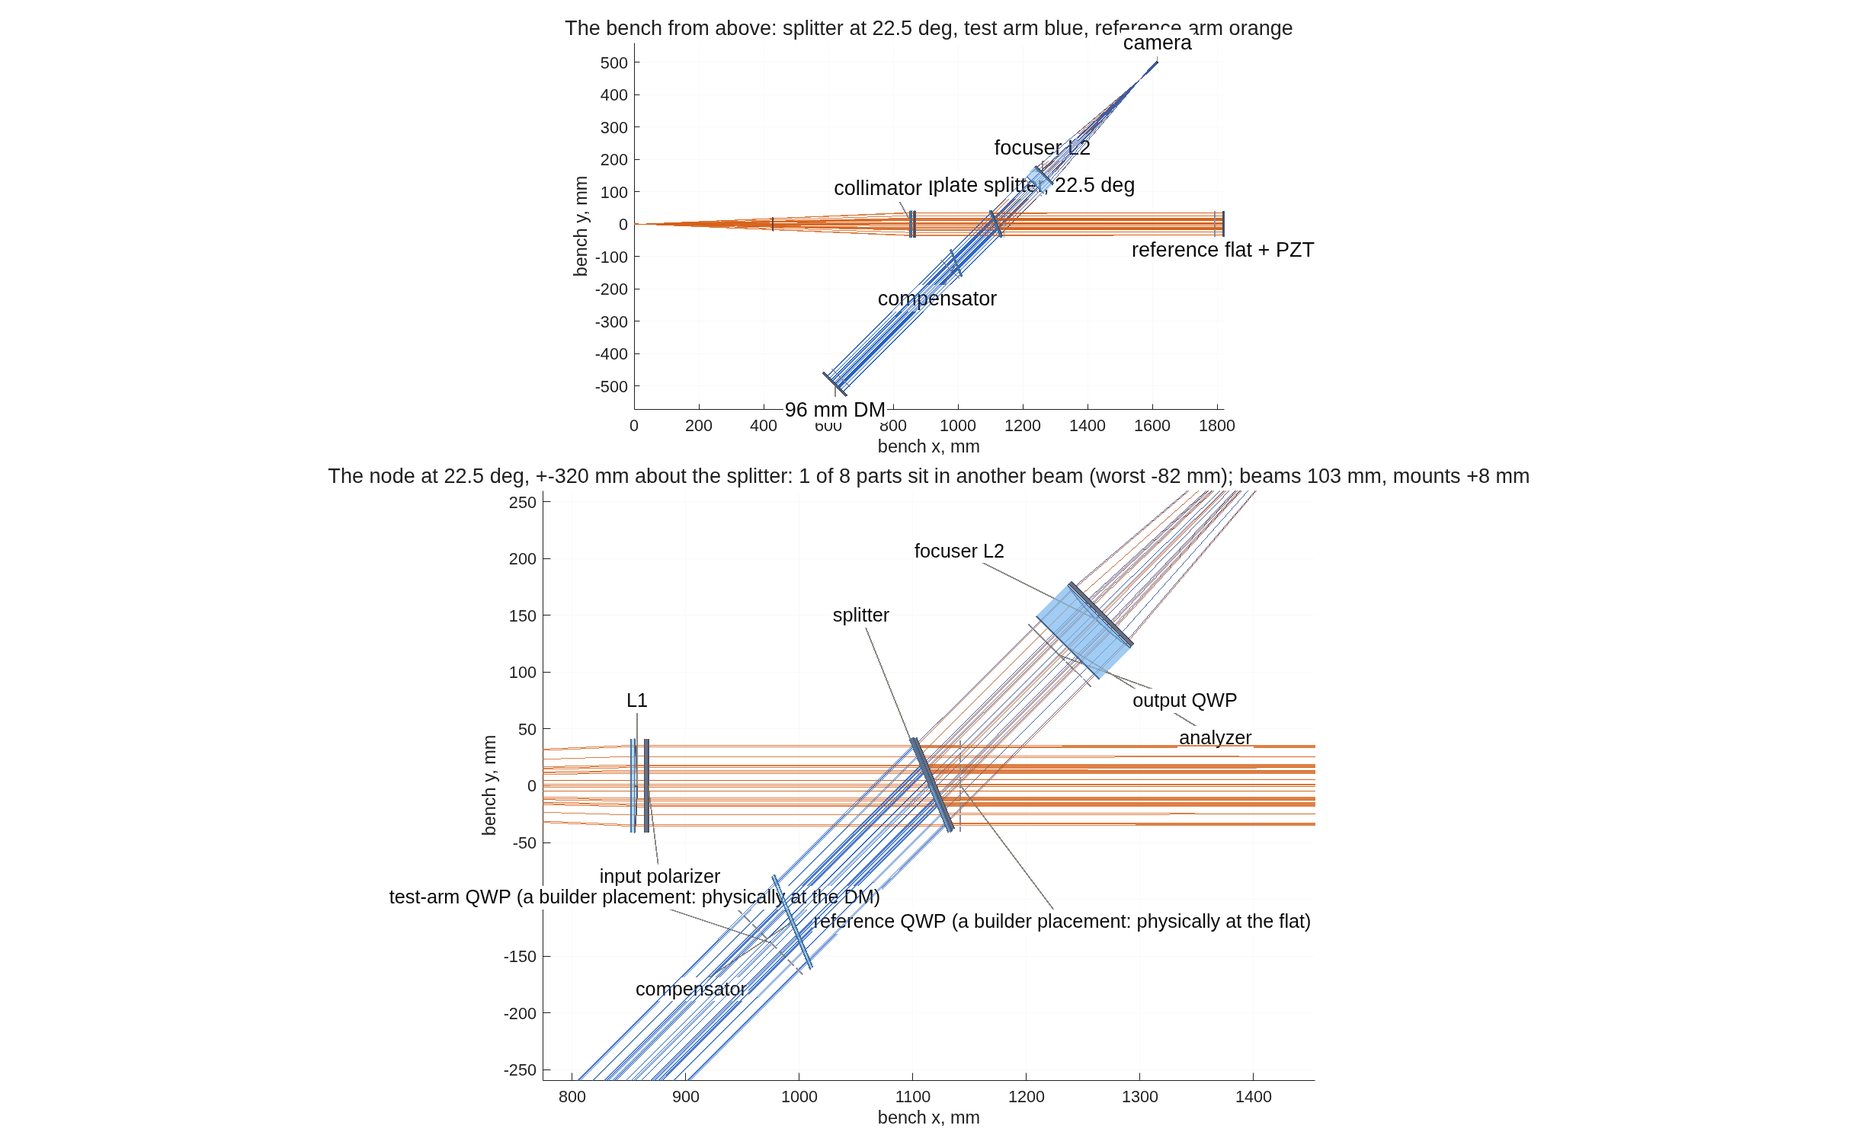
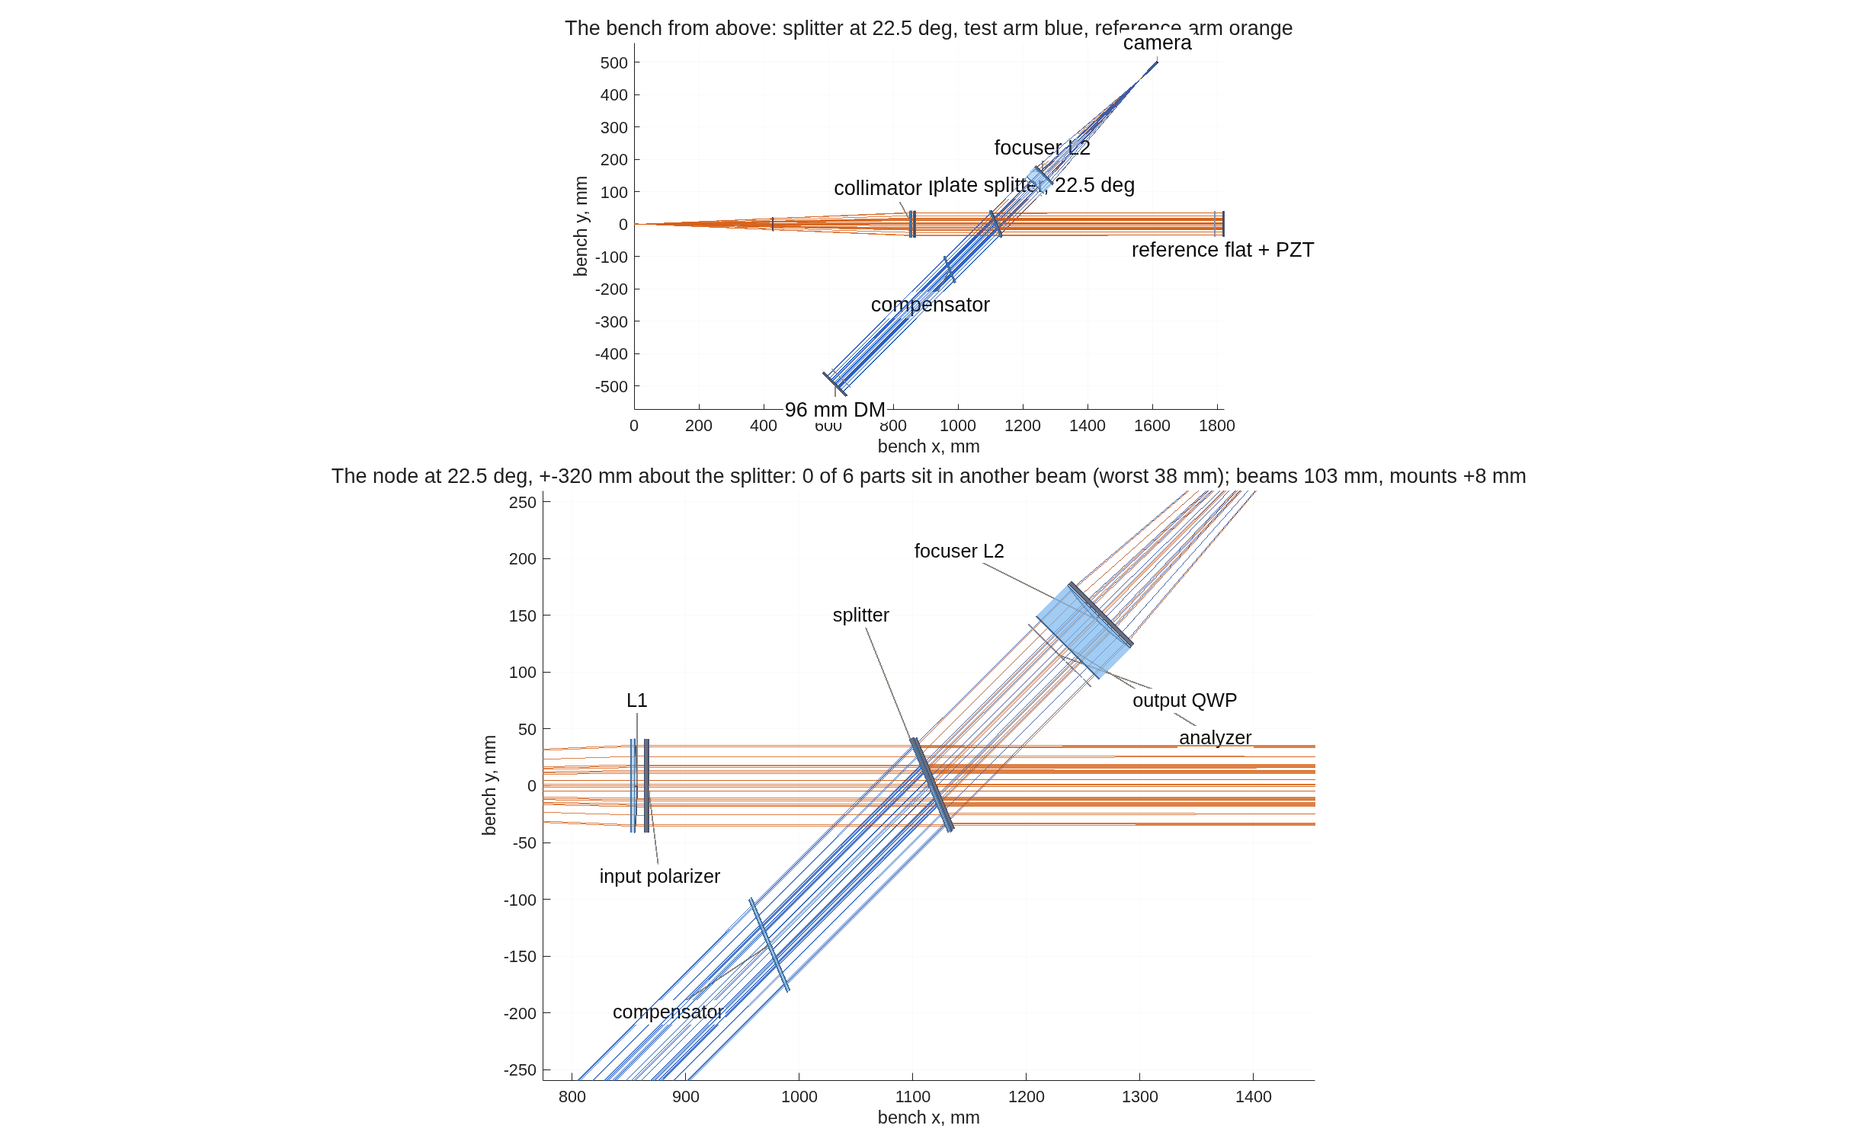
Item 2 of the realism round (CCL; recovered after the 07:25 OOM crash): Stage A solves the splitter angle against the NODE parts too (L1, input polarizer, compensator, output QWP, analyzer, L2: d sin 2AOI >= beam + part + mount + margin) and a 'clearance' stage prints dmg_bench_clearance's part-by-p

diff --git a/mmacos/templates/40_benches/tg_psi_dm96_oap/tg96_run.m b/mmacos/templates/40_benches/tg_psi_dm96_oap/tg96_run.m
@@ -16,8 +16,15 @@ function out = tg96_run(varargin)
 %   <tag>_transfer.png.  Reuses ../dm_gauge_lib is NOT required -- tg96.m's
 %   verbatim polarization-PSI helpers are file-local here (same as tg96.m).
 %
-%   Stage A  clearance solve (folded for OAP: source->OAP1 + OAP2->detector)
+%   Stage A  clearance solve: the splitter angle against the three END bodies
+%     (DM, reference flat, camera) inside LEG_CAP AND against the NODE parts
+%     packed around the splitter -- L1, the input polarizer, the compensator,
+%     the output QWP, the analyzer, L2 -- each of which clears the leg it is
+%     not in only if d*sin(2*AOI) covers beam + part + mount + margin.  The
+%     folded source->OAP1 / OAP2->detector legs are re-solved for OAP.
 %   Stage A2 sampling budget (asserted)
+%   Stage CLEARANCE  the measured part-by-part table (dmg_bench_clearance on
+%     this run's own rig) -- runs LAST; stages {'bench','clearance'}.
 %   Stage B  build via macos.design.twyman_green(..., 'optics', ...)
 %   Stage C  null / piston / single-actuator / registration / closure
 %   Stage D  transfer curve to the DM Nyquist + held-out random
@@ -116,8 +123,19 @@ if want('figs')
     end
 end
 
+% ---- Clearance: does every physical part clear every beam it is not in? ---
+%  LAST, deliberately: the tool traces both arms through its own temporary
+%  decks and leaves the engine on them, so no stage downstream may depend on
+%  which deck is loaded.  It measures THIS run's rig (passed as 'G'), not a
+%  rebuild of it from another param file.
+clearout = struct();
+if want('clearance')
+    clearout = stage_clearance_(P, bench, say);
+end
+
 out = struct('P', P, 'geom', geom, 'bench', bench, 'battery', battery, ...
-    'deck', deck, 'place', place, 'loop', loop, 'jones', jones, 's', s);
+    'deck', deck, 'place', place, 'loop', loop, 'jones', jones, 's', s, ...
+    'clearance', clearout);
 save([P.tag '.mat'], 'out');
 say('\nwrote %s_report.txt + %s.mat + figures in %s\n', P.tag, P.tag, P.outdir);
 end
@@ -133,11 +151,54 @@ function [geom, legs] = stage_A_(P, s, say)
             'camera leg vs source beam',P.clear.HW_CAM};
     say('Stage A -- clearance solve (beam_r %.1f, margin %.0f, leg cap %.0f):\n', ...
         beam_r, MARGIN, LEG_CAP);
+    MOUNT = 8;  if isfield(P.clear,'MOUNT') && ~isempty(P.clear.MOUNT), MOUNT = P.clear.MOUNT; end
     need = cellfun(@(h) beam_r + h + MARGIN, legs(:,2));
-    th_min = max(asind(need/LEG_CAP))/2;
+    th_end = max(asind(min(1, need/LEG_CAP)))/2;
+    % ---- the NODE parts.  Stage A used to solve the angle against the three
+    %  END bodies only (DM, reference flat, camera) inside LEG_CAP, and never
+    %  looked at the parts packed around the splitter: at the record's 7 deg
+    %  eight of the nine node parts sat inside a beam they are not in (Dave
+    %  2026-09-15, "this is not buildable"; measured by dmg_bench_clearance).
+    %  A part on one leg at distance d from the splitter clears the OTHER leg
+    %  when the two are separated by more than the beam radius plus the part's
+    %  own radius, its mount and the margin.  Those d are fixed by the bench
+    %  block, so this constrains the ANGLE and not a leg length -- which is
+    %  exactly why the end-body solve could not see it (that one buys its
+    %  separation by making the DM leg longer).
+    %  The separation is measured IN THE PART'S PLANE, which is what sets the
+    %  law.  Put the splitter at the origin with the input beam along +x: the
+    %  test arm runs +x, the reference arm leaves at 2*AOI, and the output leg
+    %  is opposite the reference arm.  A part whose plane is NORMAL TO ITS OWN
+    %  BEAM is crossed by the opposing leg at lateral distance d*tan(2*AOI) --
+    %  not d*sin(2*AOI), which measures across the other beam instead of along
+    %  the part.  A plate held PARALLEL TO THE SPLITTER -- the compensator, by
+    %  construction -- tilts its plane by the AOI, which shortens the crossing;
+    %  d*sin(2*AOI) is the conservative stand-in there.
+    %  Checked against the traced bench at 22.5 deg (dmg_bench_clearance,
+    %  model 512 / 65 rays), rule vs measured, mm: L1 146.3 / 153.1, input
+    %  polarizer 131.3 / 137.5, output QWP 44.2 / 53.6, analyzer 54.2 / 63.8,
+    %  L2 94.2 / 99.3, compensator 25.6 / 38.2.  Conservative on every part,
+    %  by 6-9 mm where the plane is normal to the beam and by 13 mm on the
+    %  tilted compensator.  The tool is the measurement; this is the screen
+    %  that picks the angle before there is anything to trace.
+    nd = node_parts_(P, s, beam_r);
+    th_node = 0;
+    if ~isempty(nd)
+        r_nd    = cell2mat(nd(:,3));
+        d_nd    = cell2mat(nd(:,2));
+        need_nd = beam_r + r_nd + MOUNT + MARGIN;
+        th_node = 0;
+        for k = 1:numel(d_nd)
+            q = min(1, need_nd(k)/d_nd(k));
+            if strcmp(nd{k,4}, 'bs'), t = asind(q)/2; else, t = atand(need_nd(k)/d_nd(k))/2; end
+            th_node = max(th_node, t);
+        end
+    end
+    th_min = max(th_end, th_node);
     AOI = P.bench.BS_AOI;  if isempty(AOI), AOI = ceil(th_min); end
     Lreq = need/sind(2*AOI);
-    say('  binding angle %.2f deg -> BS_AOI = %g deg\n', th_min, AOI);
+    say('  binding angle %.2f deg (end bodies %.2f, node %.2f) -> BS_AOI = %.4g deg%s\n', ...
+        th_min, th_end, th_node, AOI, pin_(P.bench.BS_AOI));
     for k = 1:size(legs,1)
         say('  %-27s need %6.1f mm sep -> leg >= %5.0f mm\n', legs{k,1}, need(k), Lreq(k));
     end
@@ -149,7 +210,30 @@ function [geom, legs] = stage_A_(P, s, say)
         say('  %-27s separation %6.1f mm, margin %+6.1f mm (spec >= %.0f)\n', ...
             legs{k,1}, D_BS_TO*sind(2*AOI), m, MARGIN);
     end
+    if ~isempty(nd)
+        say(['  node parts (d from the splitter; the separation in the part''s own plane, ' ...
+             'd*tan(2*AOI), or d*sin(2*AOI) for a plate parallel to the splitter):\n']);
+        nbad = 0;  mnode = inf(size(nd,1),1);
+        for k = 1:size(nd,1)
+            if strcmp(nd{k,4}, 'bs'), sep = nd{k,2}*sind(2*AOI); else, sep = nd{k,2}*tand(2*AOI); end
+            mnode(k) = sep - (beam_r + nd{k,3} + MOUNT);
+            if mnode(k) < MARGIN, nbad = nbad + 1; end
+            say('  %-27s d %6.1f, part r %5.1f -> separation %6.1f mm, margin %+6.1f mm (spec >= %.0f)\n', ...
+                nd{k,1}, nd{k,2}, nd{k,3}, sep, mnode(k), MARGIN);
+        end
+        say('  %d of %d node parts under the %g mm margin; beam radius %.1f, mount +%g\n', ...
+            nbad, size(nd,1), MARGIN, beam_r, MOUNT);
+        if nbad > 0
+            warning('tg96_run:node_clearance', ...
+                ['%d node part(s) under the %g mm margin at BS_AOI %g deg ' ...
+                 '(the Stage-A solve wants %g deg) -- worst %+.1f mm'], ...
+                nbad, MARGIN, AOI, ceil(th_min), min(mnode));
+        end
+        geom.node = nd;  geom.node_margin = mnode;
+    end
     geom.AOI = AOI;  geom.D_BS_TO = D_BS_TO;  geom.beam_r = beam_r;
+    geom.th_end = th_end;  geom.th_node = th_node;  geom.th_min = th_min;
+    geom.MOUNT = MOUNT;
     % ---- OAP folded-layout clearance: the source->OAP1 and OAP2->detector
     %  legs are new.  Near-normal preferred; solve the smallest fold AOI whose
     %  lateral source/detector offset clears the collimated beam + body inside
@@ -179,6 +263,81 @@ function a = solve_fold_(F, need_off)
         if F*abs(sind(180-2*a)) >= need_off, return; end
     end
     a = 45;   % fall back to the right-angle fold
+end
+
+function c = stage_clearance_(P, bench, say)
+%STAGE_CLEARANCE_  dmg_bench_clearance's part-by-part table, on THIS run's
+%   rig.  The Stage-A rule is a design rule (a part at distance d clears the
+%   other leg when d*sin(2*AOI) covers beam + part + mount); this is the
+%   measurement -- it traces both arms and takes each beam's chief where it
+%   actually crosses each part's plane.  When the two disagree, the tool is
+%   right and the Stage-A table says which part to look at.
+    c = struct();
+    if ~isfield(bench, 'G')
+        say('Clearance -- skipped: no rig built (add ''bench'' to P.stages)\n\n');  return;
+    end
+    addpath(fullfile(fileparts(fileparts(mfilename('fullpath'))), 'dm_gauge_lib'));
+    MOUNT = 8;  if isfield(P.clear,'MOUNT') && ~isempty(P.clear.MOUNT), MOUNT = P.clear.MOUNT; end
+    png = [P.tag '_clearance.png'];
+    c = dmg_bench_clearance('G', bench.G, 'MODEL', P.MODEL, 'NGRID', P.NGRID, ...
+        'MOUNT', MOUNT, 'LAM', P.LAM, 'quiet', true, 'draw', png);
+    r = c.rows;  v = cell2mat(r(:,6));  vf = v;  vf(isnan(vf)) = inf;
+    say('Clearance -- every physical part vs every beam it is not in (mount +%g mm):\n', MOUNT);
+    say('  %-22s %-12s %-5s %7s %7s %9s  %s\n', 'element', 'type', 'arm', 'a+mnt', 'r_beam', 'clear mm', 'against');
+    for i = 1:size(r, 1)
+        say('  %-22s %-12s %-5s %7.1f %7.1f %9.1f  %s\n', r{i,1}, r{i,2}, r{i,3}, r{i,4}, r{i,5}, r{i,6}, r{i,7});
+    end
+    say('  worst %+.1f mm over %d parts (spec >= %g mm); wrote %s\n\n', ...
+        min(vf), nnz(~isnan(v)), P.clear.MARGIN, png);
+    if min(vf) < P.clear.MARGIN
+        warning('tg96_run:clearance', ...
+            'worst part clearance %+.1f mm is under the %g mm spec', min(vf), P.clear.MARGIN);
+    end
+end
+
+function t = pin_(v)
+%PIN_  say whether the angle in force was solved or pinned in the param file.
+    if isempty(v), t = ' (solved)'; else, t = ' (pinned)'; end
+end
+
+function nd = node_parts_(P, s, beam_r)
+%NODE_PARTS_  {name, distance from the splitter (mm), part radius (mm)} for
+%   every part packed around the node.  The distances follow twyman_green's
+%   own placement: the collimator sits D_L1_BS ahead of the splitter with the
+%   input polarizer D_POL in front of it; the compensator D_BS_CMP into the
+%   test arm; the output quarter-wave plate and the analyzer D_POL and
+%   2*D_POL behind the recombination plane, which is itself D_RECOMB behind
+%   the splitter; the focuser L2 D_RC_L2 behind that plane.  The runner
+%   scales the rig's own lengths by s and leaves the output-optics distances
+%   physical (they are set in mm in the param file), so this table mixes the
+%   two exactly as stage_B_ does.
+%   A builder plate carries no aperture, so its radius is the beam +
+%   plate_over -- the rule dmg_bench_clearance uses when it reads aprad 0.
+%   The ARM quarter-wave plates are deliberately absent: since 2026-09-15
+%   each sits at its retro's end (D_QWP before the DM / the flat), outside
+%   the node, and each is in its own arm's beam only.
+    nd = {};
+    if ~isfield(P.clear,'node') || ~P.clear.node, return; end
+    b = P.bench;
+    D_POL = 10;                                  % twyman_green's standoff default
+    if isfield(b,'D_POL') && ~isempty(b.D_POL), D_POL = b.D_POL; end
+    over = 5;
+    if isfield(P.clear,'plate_over') && ~isempty(P.clear.plate_over), over = P.clear.plate_over; end
+    d_rc = 5;                                    % twyman_green's D_RECOMB default
+    if isfield(b,'D_RECOMB') && ~isempty(b.D_RECOMB), d_rc = b.D_RECOMB; end
+    d_l2 = 200;                                  % twyman_green's D_RC_L2 default
+    if isfield(b,'D_RC_L2') && ~isempty(b.D_RC_L2), d_l2 = b.D_RC_L2; end
+    r_lens  = s*b.D_LENS/2;                      % L1 / L2 clear aperture (the OAP
+    r_plate = beam_r + over;                     %  rig's mirrors carry the same)
+    d_l1    = s*b.D_L1_BS;
+    %  column 4 = how the part is held: 'beam' = its plane normal to its own
+    %  beam; 'bs' = parallel to the splitter (the compensator, by construction).
+    nd = { 'collimator L1',    d_l1,           r_lens,  'beam'
+           'input polarizer',  d_l1 - D_POL,   r_plate, 'beam'
+           'compensator',      s*b.D_BS_CMP,   r_plate, 'bs'
+           'output QWP',       d_rc + D_POL,   r_plate, 'beam'
+           'analyzer',         d_rc + 2*D_POL, r_plate, 'beam'
+           'focuser L2',       d_rc + d_l2,    r_lens,  'beam' };
 end
 
 function stage_A2_(P, say)

diff --git a/mmacos/templates/40_benches/dm_gauge_lib/dmg_bench_clearance.m b/mmacos/templates/40_benches/dm_gauge_lib/dmg_bench_clearance.m
@@ -14,34 +14,54 @@ function out = dmg_bench_clearance(varargin)
 %   is the DM aperture (the traced footprint is the outermost ray, scaled).
 %   Options: 'MOUNT' (mm beyond the aperture radius, 8), 'MODEL' (512),
 %   'NGRID' (65), 'quiet' (false), 'draw' ('' | a PNG path: the train from
-%   above, both arms, parts named, plus the node panel).  Any other
+%   above, both arms, parts named, plus the node panel), 'G' (an already-built
+%   twyman_green result: measure THAT rig instead of rebuilding one from
+%   zwfs_params -- what tg96_run's clearance stage passes, so the table
+%   describes the bench the run actually used), 'LAM' (mm).  Any other
 %   name/value pair overrides zwfs_params' bench block (twyman_green
 %   options: BS_AOI, D_L1_BS, D_BS_CMP, D_RECOMB, D_RC_L2, D_POL, D_QWP ...).
 %   Returns rows {part, type, arm, a+mount, r_beam, clearance, against}, G.
 %   Written 2026-09-15 after Dave found the 7-deg record bench unbuildable
 %   (the node parts sat in each other's beams); the Stage-A solve in
 %   tg96_run cleared only the three end bodies.
-o = struct('MOUNT', 8, 'MODEL', 512, 'NGRID', 65, 'quiet', false, 'draw', '');
+o = struct('MOUNT', 8, 'MODEL', 512, 'NGRID', 65, 'quiet', false, 'draw', '', 'G', [], 'LAM', []);
 ov = struct();
 for i = 1:2:numel(varargin)
     if isfield(o, varargin{i}), o.(varargin{i}) = varargin{i+1}; else, ov.(varargin{i}) = varargin{i+1}; end
 end
-zd = fullfile(fileparts(mfilename('fullpath')), '..', 'zwfs_dm96');
-addpath(zd);
-P = zwfs_params();
-if ~isfile(P.grid.flat_file), P.grid.flat_file = fullfile(zd, P.grid.flat_file); end
-bp = rmfield(P.bench, intersect(fieldnames(P.bench), {'coat_oap','coat_bareAl','coat_protectedAl'}));
-bp.polarizing = true;  bp.pol_in_deg = 45;  bp.qwp_test_deg = 0;  bp.qwp_ref_deg = 45;  bp.out_qwp_deg = 0;  bp.analyzer_deg = 0;  bp.qwp_ret = 0.25;
-f = fieldnames(ov);  for i = 1:numel(f), bp.(f{i}) = ov.(f{i}); end
-bf = fieldnames(bp);  bargs = cell(1, 2*numel(bf));
-for i = 1:numel(bf), bargs{2*i-1} = bf{i};  bargs{2*i} = bp.(bf{i}); end
-if ~isfile(P.grid.flat_file), macos.write_grid_file(P.grid.flat_file, zeros(P.grid.N_G)); end
-G = macos.design.twyman_green(bargs{:}, 'ngridpts', o.NGRID, 'to_grid_file', P.grid.flat_file, 'to_grid_n', 256, 'to_grid_dx', P.grid.DX_G*P.grid.N_G/256);
+LAM = o.LAM;
+if isempty(o.G)
+    zd = fullfile(fileparts(mfilename('fullpath')), '..', 'zwfs_dm96');
+    addpath(zd);
+    P = zwfs_params();
+    if ~isfile(P.grid.flat_file), P.grid.flat_file = fullfile(zd, P.grid.flat_file); end
+    if isempty(LAM), LAM = P.LAM; end
+    bp = rmfield(P.bench, intersect(fieldnames(P.bench), {'coat_oap','coat_bareAl','coat_protectedAl'}));
+    bp.polarizing = true;  bp.pol_in_deg = 45;  bp.qwp_test_deg = 0;  bp.qwp_ref_deg = 45;  bp.out_qwp_deg = 0;  bp.analyzer_deg = 0;  bp.qwp_ret = 0.25;
+    f = fieldnames(ov);  for i = 1:numel(f), bp.(f{i}) = ov.(f{i}); end
+    bf = fieldnames(bp);  bargs = cell(1, 2*numel(bf));
+    for i = 1:numel(bf), bargs{2*i-1} = bf{i};  bargs{2*i} = bp.(bf{i}); end
+    if ~isfile(P.grid.flat_file), macos.write_grid_file(P.grid.flat_file, zeros(P.grid.N_G)); end
+    G = macos.design.twyman_green(bargs{:}, 'ngridpts', o.NGRID, 'to_grid_file', P.grid.flat_file, 'to_grid_n', 256, 'to_grid_dx', P.grid.DX_G*P.grid.N_G/256);
+else
+    % an already-built rig (tg96_run's clearance stage hands its own G): measure
+    % THAT bench, not a rebuild of it from another param file.  Its resolved
+    % options are G.P, which is where BS_AOI and the scaled R_TO_AP come from.
+    assert(isempty(fieldnames(ov)), 'dmg_bench_clearance: overrides are meaningless with ''G'' -- set them on the rig you build');
+    G = o.G;  bp = G.P;
+    if isempty(LAM)
+        LAM = 6.328e-4;
+        try
+            if ~isempty(G.bt.wavelen), LAM = G.bt.wavelen; end
+        catch
+        end
+    end
+end
 arms = {G.bt, G.br};  tag = {'test', 'ref'};  decks = cell(1, 2);
 recs = struct('name', {}, 'element', {}, 'arm', {}, 'k', {}, 'vpt', {}, 'psi', {}, 'aprad', {}, 'rbeam', {}, 'part', {});
 macos.init(o.MODEL);
 for a = 1:2
-    bt = arms{a};  bt.wavelen = P.LAM;
+    bt = arms{a};  bt.wavelen = LAM;
     dk = [tempname, sprintf('_dmg_clr_%s.in', tag{a})];  bt.emit(dk);  macos.load_rx(dk);  decks{a} = dk;   % unique per call: two sessions may run this at once
     n = numel(bt.E);
     for k = 1:n
@@ -121,8 +141,11 @@ if ~isempty(o.draw)
         macos.view_rx('ax', ax1, 'ray_color', col, 'title', '', 'labels', false, 'hide', passive);
         macos.view_rx('ax', ax2, 'ray_color', col, 'title', '', 'labels', false, 'hide', passive);
     end
-    nm = {Et.name};  vp = @(n) Et(find(strcmp(nm, n), 1)).vpt;
-    nr = {Er.name};  vr = @(n) Er(find(strcmp(nr, n), 1)).vpt;
+    % a name the rig does not carry (the OAP variant renames its collimator,
+    % another rig may have no compensator) yields [] and its label is skipped,
+    % so the picture degrades rather than erroring.
+    nm = {Et.name};  vp = @(n) vpt_(Et, nm, n);
+    nr = {Er.name};  vr = @(n) vpt_(Er, nr, n);
     for ax = [ax1 ax2]
         axes(ax);  axis(ax, 'equal');  view(ax, 0, 90);  grid(ax, 'on');  set(ax, 'GridColor', [225 224 217]/255, 'FontSize', 12);
         xlabel(ax, 'bench x, mm', 'FontSize', 13);  ylabel(ax, 'bench y, mm', 'FontSize', 13);
@@ -132,6 +155,7 @@ if ~isempty(o.draw)
             vp('TestOptic'), [0 -80], '96 mm DM'; vr('PZT'), [0 -80], 'reference flat + PZT'; vp('L2pow'), [0 90], 'focuser L2'; vp('Detector'), [0 60], 'camera'};
     for k = 1:size(lab1, 1)
         p = lab1{k,1};  d = lab1{k,2};
+        if isempty(p), continue; end
         plot3(ax1, [p(1) p(1)+d(1)], [p(2) p(2)+d(2)], [0.2 0.2], '-', 'Color', [137 135 129]/255, 'LineWidth', 1.0);
         text(ax1, p(1)+d(1), p(2)+d(2), 0.3, lab1{k,3}, 'Color', ink, 'FontSize', 15, 'HorizontalAlignment', 'center', 'BackgroundColor', 'w', 'Margin', 1);
     end
@@ -143,6 +167,7 @@ if ~isempty(o.draw)
     % (the arm quarter-wave plates sit D_QWP before the DM and the flat since 2026-09-15; they are outside the node panel)
     for k = 1:size(lab2, 1)
         p = lab2{k,1};  d = lab2{k,2};
+        if isempty(p), continue; end
         plot3(ax2, [p(1) p(1)+d(1)], [p(2) p(2)+d(2)], [0.2 0.2], '-', 'Color', [137 135 129]/255, 'LineWidth', 1.0);
         text(ax2, p(1)+d(1), p(2)+d(2), 0.3, lab2{k,3}, 'Color', ink, 'FontSize', 14, 'HorizontalAlignment', 'center', 'BackgroundColor', 'w', 'Margin', 1);
     end
@@ -152,4 +177,10 @@ if ~isempty(o.draw)
     fprintf('wrote %s\n', o.draw);
 end
 
+end
+
+function v = vpt_(E, nm, n)
+%VPT_  the vertex of the element named n, or [] when this rig has no such part.
+    i = find(strcmp(nm, n), 1);
+    if isempty(i), v = []; else, v = E(i).vpt; end
 end

diff --git a/mmacos/templates/40_benches/tg_psi_dm96_oap/tg96_params.m b/mmacos/templates/40_benches/tg_psi_dm96_oap/tg96_params.m
@@ -12,7 +12,10 @@ function P = tg96_params()
 % ---- run control -----------------------------------------------------
 P.tag    = 'lens';                 % names runs/<tag>/<tag>_report.txt
 P.outdir = '';                     % '' => <this dir>/runs/<tag>
-P.stages = {'bench','battery','figs'};   % bench | battery | figs
+P.stages = {'bench','battery','figs'};   % clearance | bench | battery | figs
+                                   %  'clearance' prints dmg_bench_clearance's
+                                   %  part-by-part table into the report (it traces
+                                   %  both arms at P.MODEL before Stage B builds)
 
 % ---- engine + sampling (LOAD-BEARING; see tg96.m Stage A2) -----------
 P.MODEL  = 1024;                   % mGridMat caps grids at 256 on model 512;
@@ -48,6 +51,17 @@ P.pzt.step_err = 0;                % fractional four-step phase-step error (0 | 
 P.clear.beam_r  = [];              % [] => s*30 (scaled R_TO_AP)
 P.clear.HW_DM   = 90;   P.clear.HW_REF = 60;  P.clear.HW_CAM = 50;
 P.clear.MARGIN  = 25;   P.clear.LEG_CAP = 700;
+P.clear.MOUNT   = 8;               % mount ring beyond a part's aperture radius --
+                                   %  the same 8 mm dmg_bench_clearance uses, so the
+                                   %  Stage-A rule and the tool's table agree
+P.clear.node    = true;            % solve the splitter angle against the NODE parts
+                                   %  too (L1, input polarizer, compensator, output
+                                   %  QWP, analyzer, L2), not just the three end
+                                   %  bodies.  Dave 2026-09-15: at the record's 7 deg
+                                   %  eight of nine node parts sat in another beam --
+                                   %  "this is not buildable".
+P.clear.plate_over = 5;            % a builder plate carries no aperture: its radius
+                                   %  is the beam + this (dmg_bench_clearance's rule)
 
 % ---- the bench (macos.design.twyman_green options; s = 96/56 applied
 %      in tg96_run so the whole rig scales uniformly off the 56 mm v1) --
